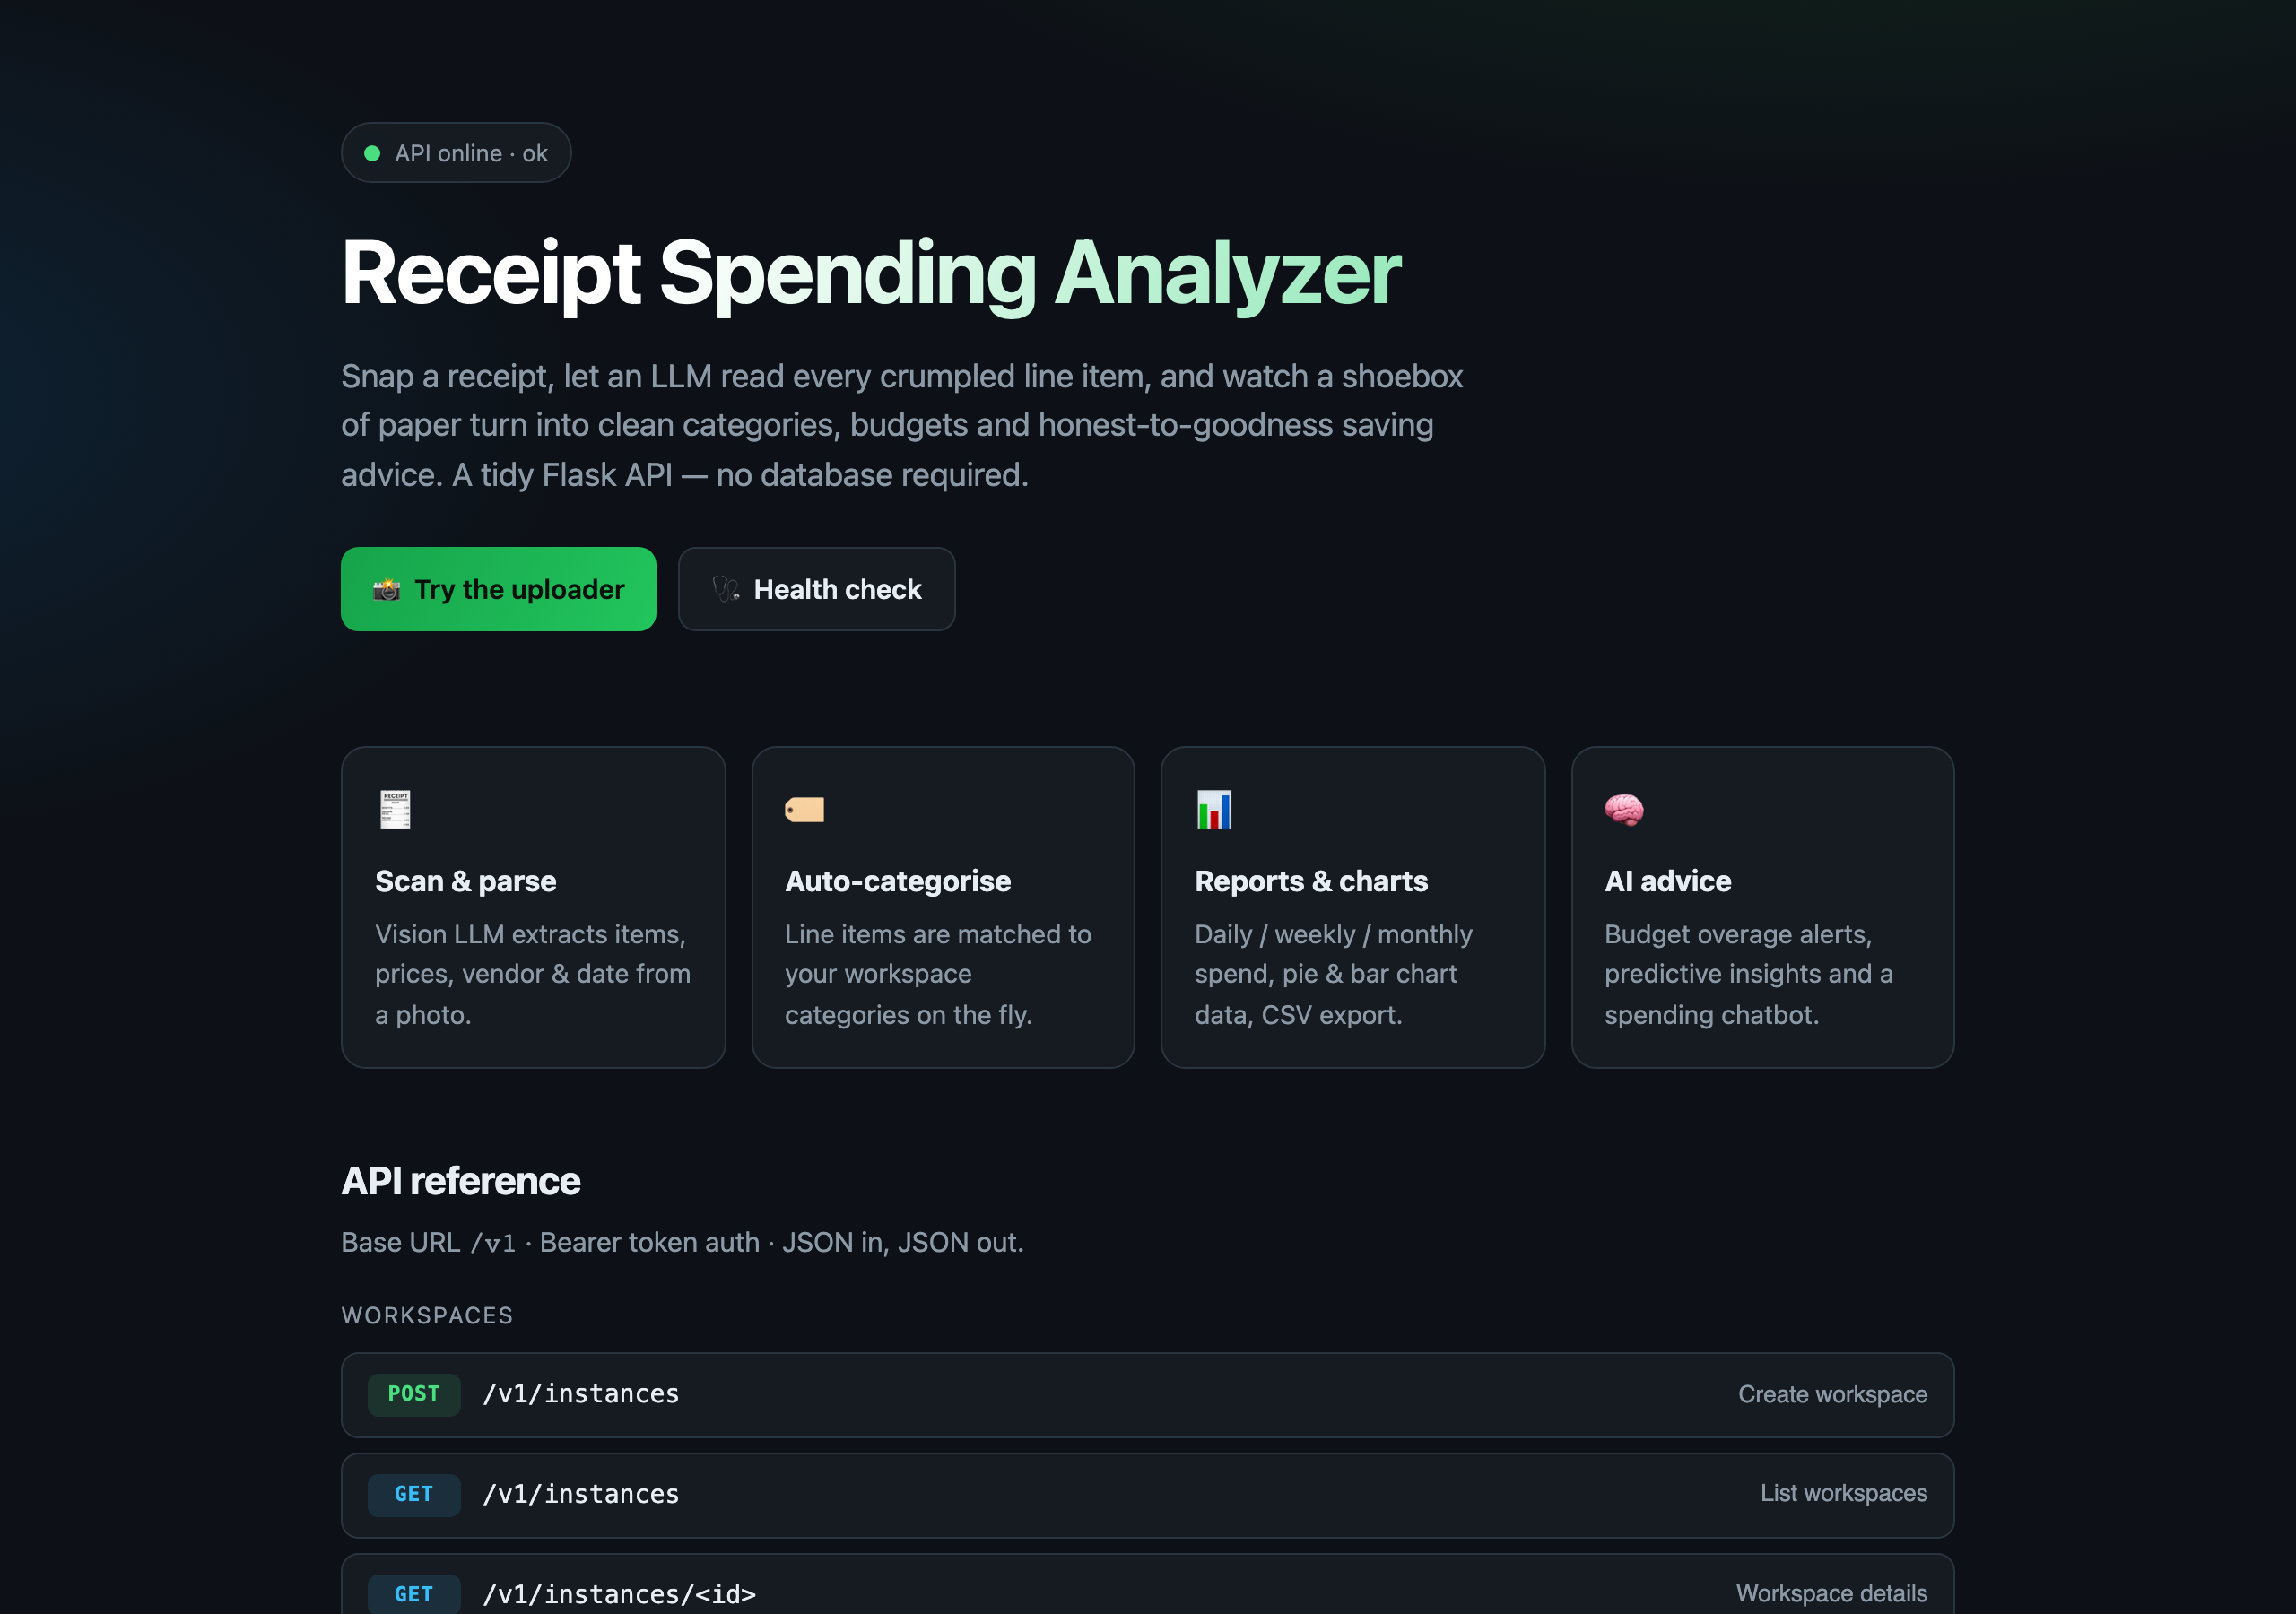
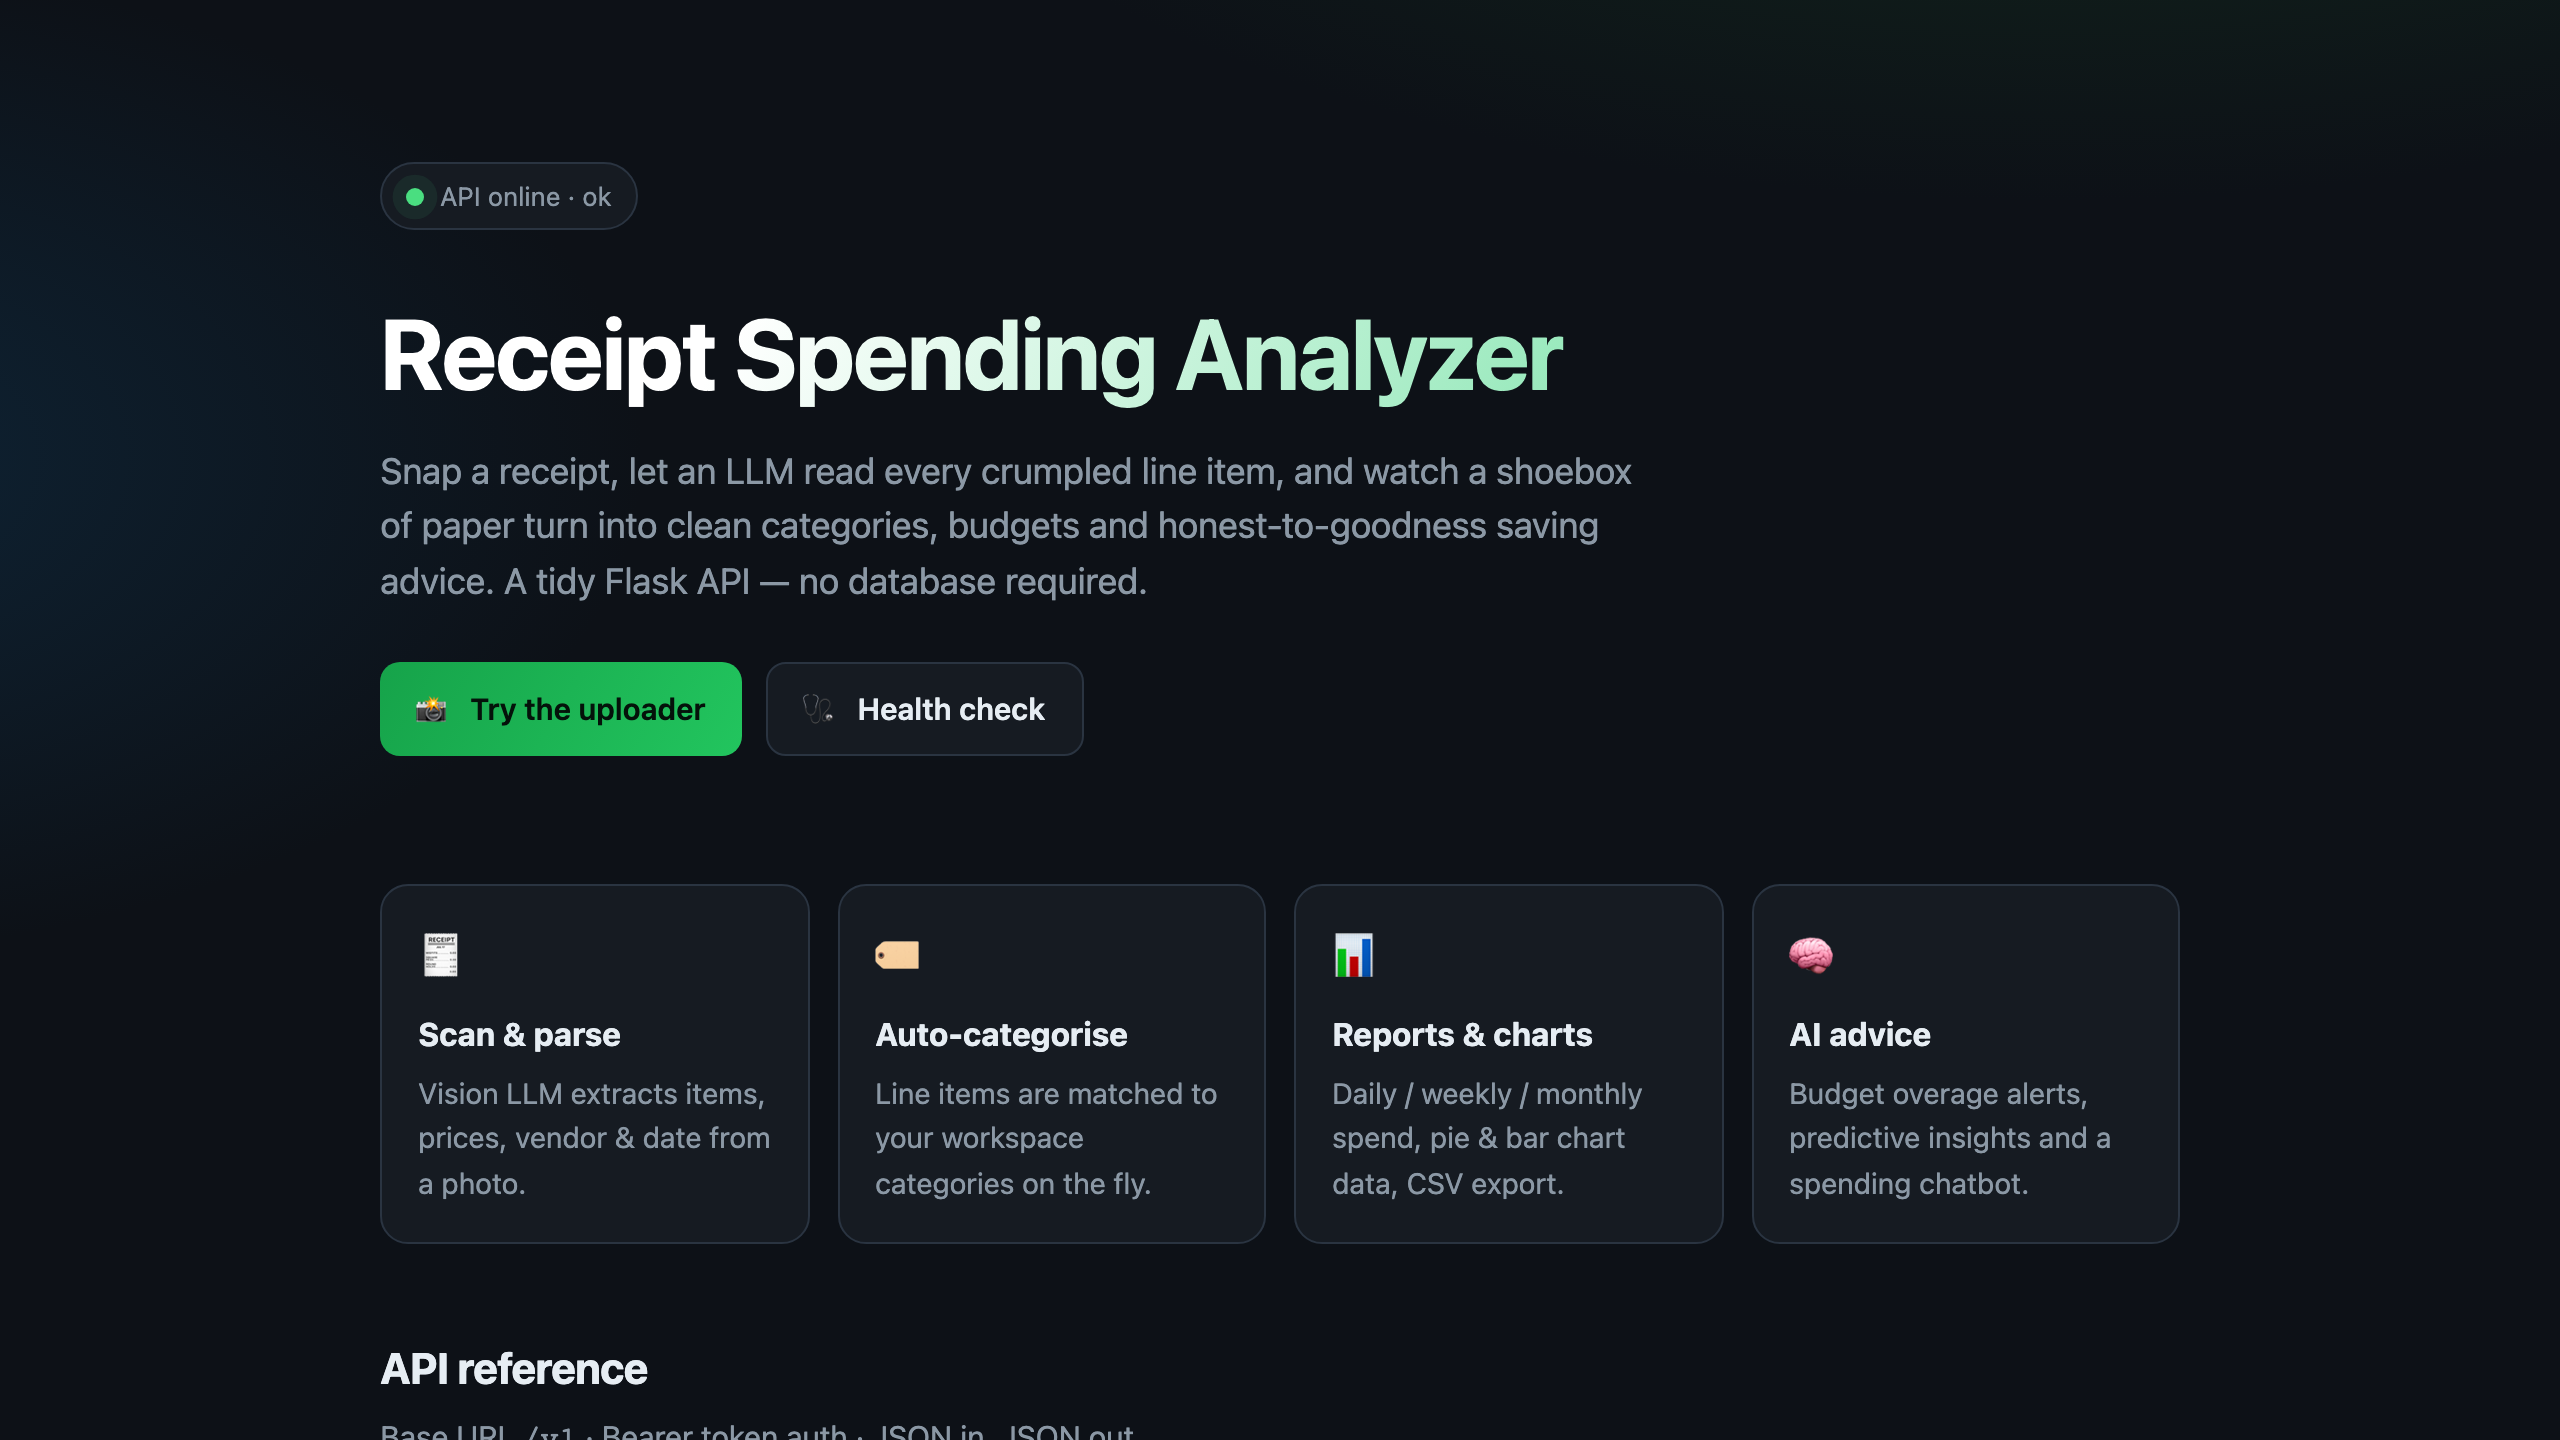
Rewrite the README as a showcase with demo media
Hero GIF of the web flow, a terminal-dashboard GIF, Subscription Radar
screenshots and a What's-new tour of everything that shipped this cycle.

diff --git a/README.md b/README.md
@@ -1,5 +1,15 @@
 # 🧾 Receipt Spending Analyzer
 
+<p align="center">
+  <a href="#-license"><img alt="License: MIT" src="https://img.shields.io/badge/License-MIT-4ade80.svg" /></a>
+  <img alt="Python 3.9+" src="https://img.shields.io/badge/Python-3.9%2B-3776AB?logo=python&logoColor=white" />
+  <img alt="Flask 3" src="https://img.shields.io/badge/Flask-3.x-000000?logo=flask&logoColor=white" />
+  <img alt="Powered by OpenAI" src="https://img.shields.io/badge/AI-OpenAI-38bdf8?logo=openai&logoColor=white" />
+  <img alt="No database" src="https://img.shields.io/badge/storage-CSV%20%2F%20JSON-fbbf24" />
+  <img alt="Tests passing" src="https://img.shields.io/badge/tests-52%20passing-4ade80.svg" />
+  <a href="#-roadmap-ideas"><img alt="PRs welcome" src="https://img.shields.io/badge/PRs-welcome-c084fc.svg" /></a>
+</p>
+
 > Snap a receipt, let an LLM read every crumpled line item, and watch a shoebox of paper
 > turn into clean categories, budgets and honest-to-goodness saving advice.
 
@@ -9,13 +19,35 @@ spending categories, and then hands you reports, charts, budget alerts and an AI
 actually knows what you bought. No database, no heavyweight setup — just CSV and JSON files on disk.
 
 <p align="center">
-  <img src="docs/media/landing-desktop.png" alt="Receipt Spending Analyzer landing page" width="100%" />
+  <img src="docs/media/demo.gif" alt="Landing page, drag-and-drop uploader and Subscription Radar in action" width="100%" />
 </p>
 
 <p align="center">
-  <img src="docs/media/upload-desktop.png" alt="Receipt upload page" width="60%" />
-  &nbsp;
-  <img src="docs/media/landing-mobile.png" alt="Mobile layout" width="30%" />
+  <em>Landing page → drag-and-drop uploader → Subscription Radar catching your quiet monthly leaks.</em>
+</p>
+
+---
+
+## 🆕 What's new
+
+The receipts you keep are only half the story — it's the charges you *forget* that quietly drain
+the account. This release goes looking for them, and adds a few creature comforts along the way:
+
+- **📡 Subscription Radar** — brand-new recurring-charge detection. Pure maths over your CSV (no LLM,
+  no key), it spots the charges that repeat — Netflix, the gym, that cloud drive — classifies the
+  cadence, predicts the *next* hit, flags price creep, and totals what they cost you per month and
+  per year. Ships as both a REST endpoint **and** a dark-mode dashboard at **`/recurring`**.
+- **🖥️ Premium terminal dashboard** — a `rich`-powered TUI (`cli.py`) that renders workspaces,
+  transactions, budget bars and an in-terminal spend breakdown without leaving your shell.
+- **🧪 A/B landing test** — two heroes, one cookie. Visit `/?variant=b` for a benefit-led variant.
+- **🛡️ Hardened & accessible** — uniform JSON errors, upload size caps + type checks, keyboard-first
+  pages with skip links and focus rings, deferred heavy imports for a snappier cold start.
+- **✅ Real test suite** — 52 pytest cases + a GitHub Actions CI workflow.
+- **🔎 Discoverable & installable** — SEO/Open Graph/JSON-LD, a favicon + PWA manifest set,
+  `sitemap.xml` / `robots.txt`, and `pip install -e .` packaging with a `receipt-analyzer` command.
+
+<p align="center">
+  <img src="docs/media/recurring-desktop.png" alt="Subscription Radar dashboard detecting recurring charges" width="90%" />
 </p>
 
 ---
@@ -31,10 +63,36 @@ actually knows what you bought. No database, no heavyweight setup — just CSV a
   line chart data and one-click CSV export.
 - **🧠 AI insights & advice** — personalised saving suggestions, budget-overage detection and a
   conversational chatbot that answers questions about *your* spending.
+- **📡 Recurring-charge detection** — spots subscriptions and repeat buys ("you've paid Netflix three
+  months running"), estimates their monthly/annual burden, predicts the next charge and flags price
+  creep — no LLM required, pure maths over your CSV.
 - **🩺 Health check** — a plain liveness endpoint for your uptime monitor.
 
 Everything persists to lightweight files under `storage/` — perfect for a demo, a hackathon, or a
 self-hosted personal tool.
+
+---
+
+## 🖥️ It runs in your terminal, too
+
+Not everything needs a browser. `cli.py` is a read-only [`rich`](https://github.com/Textualize/rich)
+dashboard that talks to the running API over HTTP — browse workspaces, page through transactions,
+watch budget bars fill up in colour and read a spend breakdown as an in-terminal bar chart. It
+degrades to clean plain text when `rich` isn't installed, so it always runs.
+
+<p align="center">
+  <img src="docs/media/tui.gif" alt="The rich terminal dashboard listing workspaces and a full spend dashboard" width="92%" />
+</p>
+
+```bash
+python cli.py                 # launch the interactive dashboard
+python cli.py health          # one-shot API health check
+python cli.py workspaces      # list workspaces as a table
+python cli.py show <id>       # full dashboard for one workspace
+```
+
+Point it anywhere with `AIRECEIPT_URL`, `AIRECEIPT_TOKEN` and `AIRECEIPT_CURRENCY`. Full notes in
+[`docs/VARIANTS.md`](docs/VARIANTS.md).
 
 ---
 
@@ -46,6 +104,8 @@ self-hosted personal tool.
 | AI               | OpenAI (vision for parsing, chat for advice)       |
 | Data crunching   | pandas over CSV / JSON files — no DB to babysit    |
 | Charts           | matplotlib (headless `Agg` backend)                |
+| Terminal UI      | `rich` (optional — degrades to plain text)         |
+| Tests            | pytest + GitHub Actions CI                          |
 | Config           | `python-dotenv` (`.env`)                           |
 
 The code is organised so each concern lives in its own place:
@@ -53,10 +113,13 @@ The code is organised so each concern lives in its own place:
 ```
 app/
 ├── routes/        # thin HTTP handlers (one blueprint per area)
-├── services/      # the actual business logic
+├── services/      # the actual business logic (incl. recurring.py)
 │   └── aggregators/   # report math: items, categories, summaries
-└── utils/         # LLM calls, image saving, CSV queries
-templates/         # landing page + receipt uploader
+├── utils/         # LLM calls, image saving, CSV queries
+└── errors.py      # uniform JSON error handlers
+templates/         # landing (A/B), uploader, Subscription Radar
+cli.py             # rich terminal dashboard
+tests/             # pytest suite
 run.py             # app factory + entry point
 ```
 
@@ -64,12 +127,23 @@ run.py             # app factory + entry point
 
 ## 🚀 Get it running (5 minutes, promise)
 
+**TL;DR one-liner** (clone, install, launch — macOS / Linux):
+
+```bash
+git clone https://github.com/waleedsworld/Ai-Reciept.git && cd Ai-Reciept && \
+  python3 -m venv .venv && source .venv/bin/activate && pip install -e . && receipt-analyzer
+```
+
+Then open **http://127.0.0.1:5000**. Installing with `pip install -e .` (see
+[`pyproject.toml`](pyproject.toml)) also drops a **`receipt-analyzer`** command on your `PATH`
+that boots the server from anywhere. Prefer the step-by-step version? Read on.
+
 ### Prerequisites
 
 - **Python 3.9+** (developed on 3.11) — check with `python3 --version`
 - **pip** and the ability to make a virtual environment
 - An **OpenAI API key** — *only* needed for the AI features (parsing, advice, chat). The workspace,
-  category, transaction and report endpoints work perfectly fine without one.
+  category, transaction, report **and Subscription Radar** endpoints work perfectly fine without one.
 
 ### 1. Clone & enter
 
@@ -123,6 +197,12 @@ them back:
 python test.py
 ```
 
+Or run the full suite:
+
+```bash
+pip install pytest && pytest
+```
+
 ---
 
 ## 📡 API reference
@@ -160,6 +240,12 @@ build the token doubles as the user id, so pick any string and stay consistent.
 | `GET` | `/v1/instances/<id>/transactions` | List transactions |
 | `POST` | `/v1/instances/<id>/budgets` | Create / update a category budget |
 | `GET` | `/v1/instances/<id>/budgets` | Budget utilisation (spent vs limit) |
+| `GET` | `/v1/instances/<id>/recurring` | 📡 Detect recurring charges / subscriptions |
+
+> **Subscription Radar params** (both optional): `?min_occurrences=3` — separate purchase days
+> needed to qualify; `?max_variability=0.4` — how metronome-like the gaps must be (0–1, lower is
+> stricter). Returns each charge's cadence, next-expected date, price trend, confidence, and the
+> projected monthly / annual totals.
 
 ### Reports & insights
 | Method | Path | Purpose |
@@ -191,9 +277,27 @@ curl -X POST http://127.0.0.1:5000/v1/reciepts \
   -H "Authorization: Bearer me" \
   -F "reciept=@receipt.jpg" \
   -F "instance_id=<id>"
+
+# 4. Sweep for subscriptions (no key needed)
+curl "http://127.0.0.1:5000/v1/instances/<id>/recurring?min_occurrences=3"
 ```
 
-Prefer clicking? Head to **/upload** for a drag-and-drop uploader that shows the parsed JSON inline.
+Prefer clicking? Head to **/upload** for a drag-and-drop uploader that shows the parsed JSON inline,
+or **/recurring** for the Subscription Radar dashboard.
+
+---
+
+## 📸 A look around
+
+<p align="center">
+  <img src="docs/media/landing-desktop.png" alt="Receipt Spending Analyzer landing page" width="100%" />
+</p>
+
+<p align="center">
+  <img src="docs/media/upload-desktop.png" alt="Drag-and-drop receipt uploader with live image preview" width="49%" />
+  &nbsp;
+  <img src="docs/media/landing-mobile.png" alt="Responsive mobile layout" width="24%" />
+</p>
 
 ---
 
@@ -203,11 +307,25 @@ Live demo — deploying soon.
 
 ---
 
+## 🧪 Extras
+
+- **📡 Subscription Radar dashboard** — a self-contained dark UI at `/recurring` over the
+  recurring-charge API. Paste an instance id, hit **Scan**, and watch your quiet monthly leaks
+  light up.
+- **🖥️ Terminal dashboard** — `python cli.py show <id>` for a full `rich` TUI. See
+  [`docs/VARIANTS.md`](docs/VARIANTS.md).
+- **🧪 Landing A/B test** — visit `/?variant=b` for an alternate benefit-led hero (the choice sticks
+  via a cookie). Details in [`docs/VARIANTS.md`](docs/VARIANTS.md).
+
+---
+
 ## 🗺️ Roadmap ideas
 
 - Swap CSV storage for SQLite when a workspace gets big.
 - Multi-currency support (totals currently assume PKR).
-- Recurring-charge detection ("you've paid Netflix 3 months running").
+- ~~Recurring-charge detection ("you've paid Netflix 3 months running").~~ ✅ **Shipped** —
+  `GET /v1/instances/<id>/recurring` + the `/recurring` dashboard.
+- Push Subscription Radar findings into budget alerts automatically.
 
 ---
 